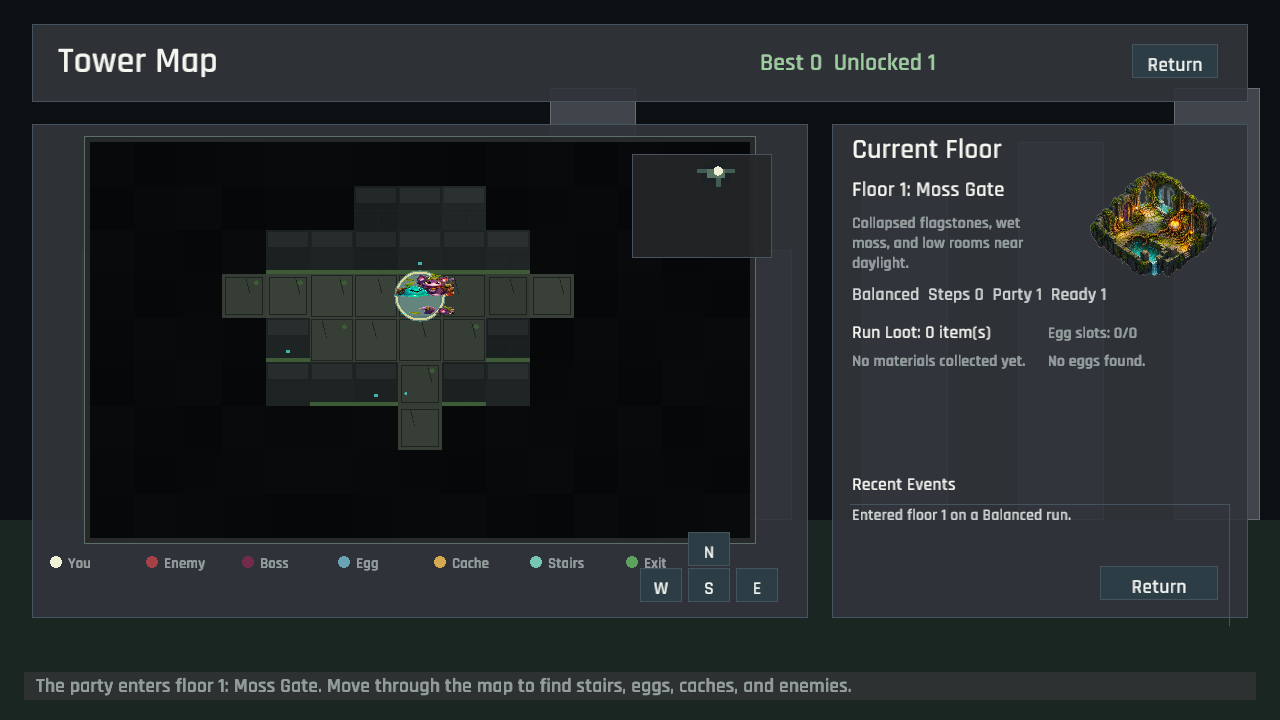
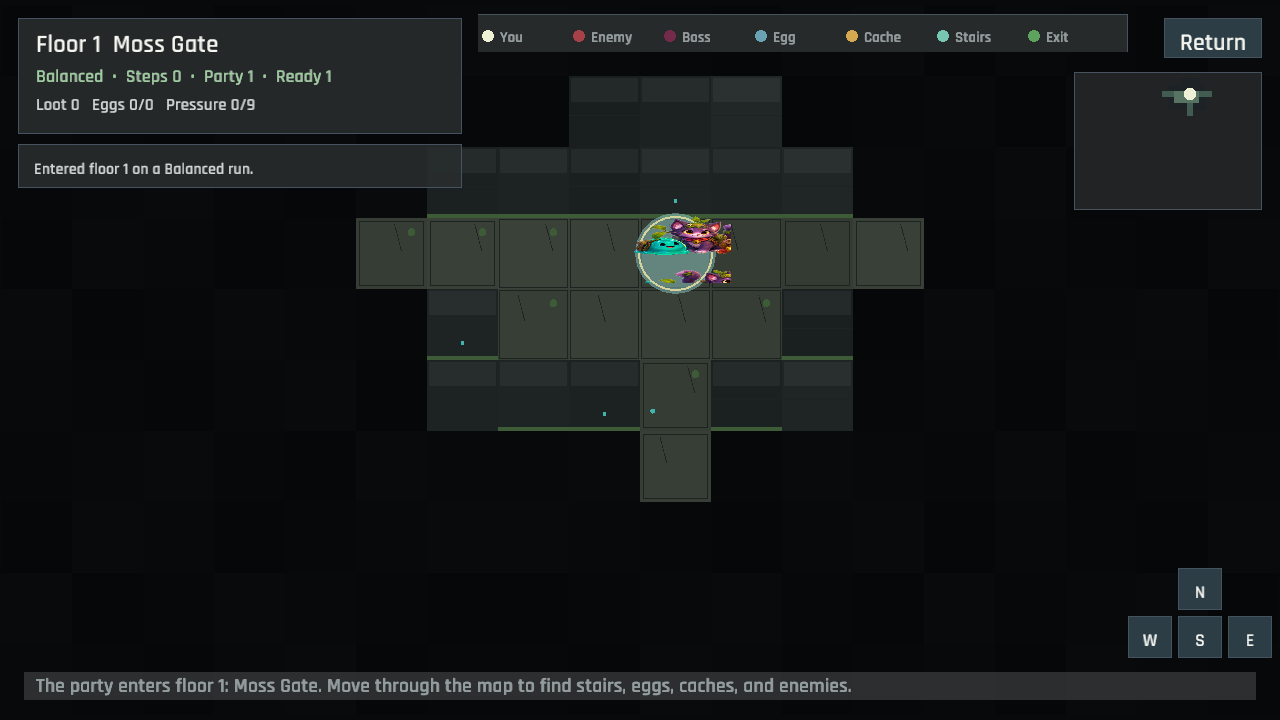
Let the tower spread beneath every step (full-screen dungeon map, touch HUD)
The dungeon world was confined to a small framed panel while permanent sidebars consumed most of the canvas, making the generated rooms feel distant and secondary.

The active run now renders as a full-canvas map with a larger tile scale. Floor status, event text, legend, minimap, return action, and directional touch controls float at the edges so the dungeon remains primary without losing information or input paths.

diff --git a/src/screens/tower.rs b/src/screens/tower.rs
@@ -2,7 +2,6 @@ use macroquad::prelude::*;
 
 mod map_view;
 
-use crate::assets;
 use crate::data::GameData;
 use crate::engine::{tower_engine, town_engine};
 use crate::state::{GameState, TowerRunState};
@@ -66,13 +65,12 @@ pub fn handle_input(state: &GameState) -> Option<TowerAction> {
 }
 
 pub fn draw(state: &GameState, data: &GameData, status_message: &str) {
-    draw_backdrop();
-    draw_header(state);
-
     if let Some(run) = &state.tower_run {
-        map_view::draw_map_panel(run);
-        draw_run_sidebar(state, data, run);
+        map_view::draw_map_world(run);
+        draw_run_overlay(state, data, run);
     } else {
+        draw_backdrop();
+        draw_header(state);
         draw_empty_run();
         draw_floor_reference(state, data);
     }
@@ -150,179 +148,84 @@ fn draw_header(state: &GameState) {
     ui::draw_button(town_button_rect(), label, true);
 }
 
-fn draw_run_sidebar(state: &GameState, data: &GameData, run: &TowerRunState) {
-    let rect = Rect::new(832.0, 124.0, 416.0, 494.0);
-    ui::draw_panel(rect);
-
+fn draw_run_overlay(state: &GameState, data: &GameData, run: &TowerRunState) {
     let floor = data.tower_floor(run.current_floor);
     let floor_name = floor
         .map(|floor| floor.name.as_str())
         .unwrap_or("Unknown Floor");
-    let theme = floor
-        .map(|floor| floor.theme.as_str())
-        .unwrap_or("The tower records are missing.");
-
-    ui::draw_section_title("Current Floor", rect.x + 20.0, rect.y + 34.0);
+    let panel = Rect::new(18.0, 18.0, 444.0, 116.0);
+    draw_overlay_panel(panel);
     draw_ui_text_ex(
-        &format!("Floor {}: {}", run.current_floor, floor_name),
-        rect.x + 20.0,
-        rect.y + 72.0,
+        &format!("Floor {}  {}", run.current_floor, floor_name),
+        panel.x + 18.0,
+        panel.y + 34.0,
         TextParams {
-            font_size: 21,
+            font_size: 25,
             color: ui::TEXT_BRIGHT,
             ..Default::default()
         },
     );
-    assets::draw_room_vignette(
-        run.current_floor,
-        rect.x + 248.0,
-        rect.y + 46.0,
-        148.0,
-        108.0,
-    );
-    draw_wrapped_line(theme, rect.x + 20.0, rect.y + 104.0, 30, ui::TEXT_DIM);
-
     draw_ui_text_ex(
         &format!(
-            "{}  Steps {}  Party {}  Ready {}",
+            "{}  •  Steps {}  •  Party {}  •  Ready {}",
             run.goal,
             run.rooms_explored,
             tower_engine::party_count(state),
             tower_engine::battle_ready_party_count(state)
         ),
-        rect.x + 20.0,
-        rect.y + 176.0,
+        panel.x + 18.0,
+        panel.y + 64.0,
         TextParams {
             font_size: 18,
+            color: ui::ACCENT,
+            ..Default::default()
+        },
+    );
+    draw_ui_text_ex(
+        &format!(
+            "Loot {}   Eggs {}/{}   Pressure {}/{}",
+            run.cargo_amount(),
+            state.egg_inventory.eggs.len() + run.found_eggs.len(),
+            town_engine::egg_capacity(state),
+            run.pressure,
+            run.pressure_limit
+        ),
+        panel.x + 18.0,
+        panel.y + 92.0,
+        TextParams {
+            font_size: 17,
             color: ui::TEXT,
             ..Default::default()
         },
     );
 
-    draw_cargo_summary(
-        state,
-        data,
-        run,
-        rect.x + 20.0,
-        rect.y + 214.0,
-        rect.w - 40.0,
-    );
-    draw_events(run, rect.x + 20.0, rect.y + 366.0, rect.w - 40.0);
-    ui::draw_button(return_button_rect(), "Return", true);
-}
-
-fn draw_cargo_summary(
-    state: &GameState,
-    data: &GameData,
-    run: &TowerRunState,
-    x: f32,
-    y: f32,
-    width: f32,
-) {
-    draw_ui_text_ex(
-        &format!("Run Loot: {} item(s)", run.cargo_amount()),
-        x,
-        y,
-        TextParams {
-            font_size: 18,
-            color: ui::TEXT_BRIGHT,
-            ..Default::default()
-        },
-    );
-
-    if run.cargo.is_empty() {
+    if let Some(message) = run.event_log.last() {
+        let event_panel = Rect::new(18.0, 144.0, 444.0, 44.0);
+        draw_overlay_panel(event_panel);
         draw_ui_text_ex(
-            "No materials collected yet.",
-            x,
-            y + 28.0,
+            message,
+            event_panel.x + 16.0,
+            event_panel.y + 30.0,
             TextParams {
                 font_size: 16,
-                color: ui::TEXT_DIM,
+                color: ui::TEXT,
                 ..Default::default()
             },
         );
-    } else {
-        for (index, stack) in run.cargo.iter().take(3).enumerate() {
-            draw_ui_text_ex(
-                &format!(
-                    "{} {}",
-                    stack.amount,
-                    data.resource_name(&stack.resource_id)
-                ),
-                x,
-                y + 28.0 + index as f32 * 22.0,
-                TextParams {
-                    font_size: 16,
-                    color: ui::TEXT,
-                    ..Default::default()
-                },
-            );
-        }
     }
 
-    draw_ui_text_ex(
-        &format!(
-            "Egg slots: {}/{}",
-            state.egg_inventory.eggs.len() + run.found_eggs.len(),
-            town_engine::egg_capacity(state)
-        ),
-        x + width * 0.52,
-        y,
-        TextParams {
-            font_size: 16,
-            color: ui::TEXT_DIM,
-            ..Default::default()
-        },
-    );
-
-    if run.found_eggs.is_empty() {
-        draw_ui_text_ex(
-            "No eggs found.",
-            x + width * 0.52,
-            y + 28.0,
-            TextParams {
-                font_size: 16,
-                color: ui::TEXT_DIM,
-                ..Default::default()
-            },
-        );
-    } else {
-        for (index, egg) in run.found_eggs.iter().take(3).enumerate() {
-            let egg_y = y + 20.0 + index as f32 * 32.0;
-            assets::draw_egg_badge(&egg.egg_type_id, x + width * 0.52, egg_y, 24.0);
-            let egg_name = data
-                .egg_type(&egg.egg_type_id)
-                .map(|egg_type| egg_type.name.as_str())
-                .unwrap_or(egg.egg_type_id.as_str());
-            draw_ui_text_ex(
-                egg_name,
-                x + width * 0.52 + 32.0,
-                egg_y + 20.0,
-                TextParams {
-                    font_size: 15,
-                    color: ui::TEXT,
-                    ..Default::default()
-                },
-            );
-        }
-    }
+    ui::draw_button(town_button_rect(), "Return", true);
 }
 
-fn draw_events(run: &TowerRunState, x: f32, y: f32, width: f32) {
-    draw_ui_text_ex(
-        "Recent Events",
-        x,
-        y,
-        TextParams {
-            font_size: 18,
-            color: ui::TEXT_BRIGHT,
-            ..Default::default()
-        },
+fn draw_overlay_panel(rect: Rect) {
+    draw_rectangle(
+        rect.x,
+        rect.y,
+        rect.w,
+        rect.h,
+        Color::from_rgba(12, 17, 18, 226),
     );
-    for (index, message) in run.event_log.iter().rev().take(4).enumerate() {
-        draw_wrapped_line(message, x, y + 30.0 + index as f32 * 44.0, 48, ui::TEXT);
-    }
-    draw_rectangle_lines(x - 2.0, y + 14.0, width + 4.0, 122.0, 1.0, ui::PANEL_EDGE);
+    draw_rectangle_lines(rect.x, rect.y, rect.w, rect.h, 1.5, ui::PANEL_EDGE);
 }
 
 fn draw_empty_run() {
@@ -431,21 +334,27 @@ fn movement_buttons() -> [(TowerAction, Rect); 4] {
     [
         (
             TowerAction::Move(0, -1),
-            Rect::new(688.0, 532.0, 42.0, 34.0),
+            Rect::new(1178.0, 568.0, 44.0, 42.0),
         ),
         (
             TowerAction::Move(-1, 0),
-            Rect::new(640.0, 568.0, 42.0, 34.0),
+            Rect::new(1128.0, 616.0, 44.0, 42.0),
         ),
-        (TowerAction::Move(1, 0), Rect::new(736.0, 568.0, 42.0, 34.0)),
-        (TowerAction::Move(0, 1), Rect::new(688.0, 568.0, 42.0, 34.0)),
+        (
+            TowerAction::Move(1, 0),
+            Rect::new(1228.0, 616.0, 44.0, 42.0),
+        ),
+        (
+            TowerAction::Move(0, 1),
+            Rect::new(1178.0, 616.0, 44.0, 42.0),
+        ),
     ]
 }
 
 fn town_button_rect() -> Rect {
-    Rect::new(ui::VIEW_WIDTH - 148.0, 44.0, 86.0, 34.0)
+    Rect::new(ui::VIEW_WIDTH - 116.0, 18.0, 98.0, 40.0)
 }
 
 fn return_button_rect() -> Rect {
-    Rect::new(1100.0, 566.0, 118.0, 34.0)
+    town_button_rect()
 }

diff --git a/src/screens/tower/map_view.rs b/src/screens/tower/map_view.rs
@@ -9,30 +9,28 @@ use crate::state::{
 use crate::ui;
 use macroquad_toolkit::ui::draw_ui_text_ex;
 
-const VIEWPORT_TILES_W: u32 = 15;
-const VIEWPORT_TILES_H: u32 = 9;
+const VIEWPORT_TILES_W: u32 = 18;
+const VIEWPORT_TILES_H: u32 = 10;
 
-pub(super) fn draw_map_panel(run: &TowerRunState) {
-    let rect = Rect::new(32.0, 124.0, 776.0, 494.0);
-    ui::draw_panel(rect);
-
+pub(super) fn draw_map_world(run: &TowerRunState) {
     let map = &run.map;
     if map.is_empty() {
+        draw_rectangle(0.0, 0.0, ui::VIEW_WIDTH, ui::VIEW_HEIGHT, rgba(8, 10, 12));
         ui::draw_centered_text(
             "Map data is being rebuilt.",
-            rect.x + rect.w * 0.5,
-            rect.y + rect.h * 0.5,
+            ui::VIEW_WIDTH * 0.5,
+            ui::VIEW_HEIGHT * 0.5,
             26,
             ui::TEXT_DIM,
         );
         return;
     }
 
-    let map_area = Rect::new(rect.x + 22.0, rect.y + 18.0, 732.0, 396.0);
-    let minimap_rect = Rect::new(rect.x + 600.0, rect.y + 30.0, 140.0, 104.0);
+    let map_area = Rect::new(0.0, 0.0, ui::VIEW_WIDTH, ui::VIEW_HEIGHT);
+    let minimap_rect = Rect::new(ui::VIEW_WIDTH - 206.0, 72.0, 188.0, 138.0);
     draw_map_viewport(map, map_area);
     draw_minimap(map, minimap_rect);
-    draw_legend(rect.x + 24.0, rect.y + 444.0);
+    draw_legend(488.0, 42.0);
     draw_movement_controls();
 }
 
@@ -51,13 +49,7 @@ fn draw_map_viewport(map: &TowerMapState, area: Rect) {
     let origin_x = area.x + (area.w - map_w) * 0.5;
     let origin_y = area.y + (area.h - map_h) * 0.5;
 
-    draw_rectangle(
-        origin_x - 6.0,
-        origin_y - 6.0,
-        map_w + 12.0,
-        map_h + 12.0,
-        Color::from_rgba(8, 10, 12, 225),
-    );
+    draw_rectangle(0.0, 0.0, ui::VIEW_WIDTH, ui::VIEW_HEIGHT, rgba(7, 9, 10));
 
     for view_y in 0..visible_h {
         for view_x in 0..visible_w {
@@ -96,14 +88,6 @@ fn draw_map_viewport(map: &TowerMapState, area: Rect) {
         origin_x - start_x as f32 * tile_size,
         origin_y - start_y as f32 * tile_size,
         tile_size,
-    );
-    draw_rectangle_lines(
-        origin_x - 6.0,
-        origin_y - 6.0,
-        map_w + 12.0,
-        map_h + 12.0,
-        2.0,
-        Color::from_rgba(92, 112, 104, 255),
     );
 }
 
@@ -525,8 +509,16 @@ fn draw_legend(x: f32, y: f32) {
         ("Exit", Color::from_rgba(95, 162, 95, 255)),
     ];
 
+    draw_rectangle(
+        x - 10.0,
+        y - 28.0,
+        650.0,
+        38.0,
+        Color::from_rgba(8, 12, 13, 218),
+    );
+    draw_rectangle_lines(x - 10.0, y - 28.0, 650.0, 38.0, 1.0, ui::PANEL_EDGE);
     for (index, (label, color)) in entries.iter().enumerate() {
-        let item_x = x + index as f32 * 96.0;
+        let item_x = x + index as f32 * 91.0;
         draw_circle(item_x, y - 6.0, 6.0, *color);
         draw_ui_text_ex(
             label,
